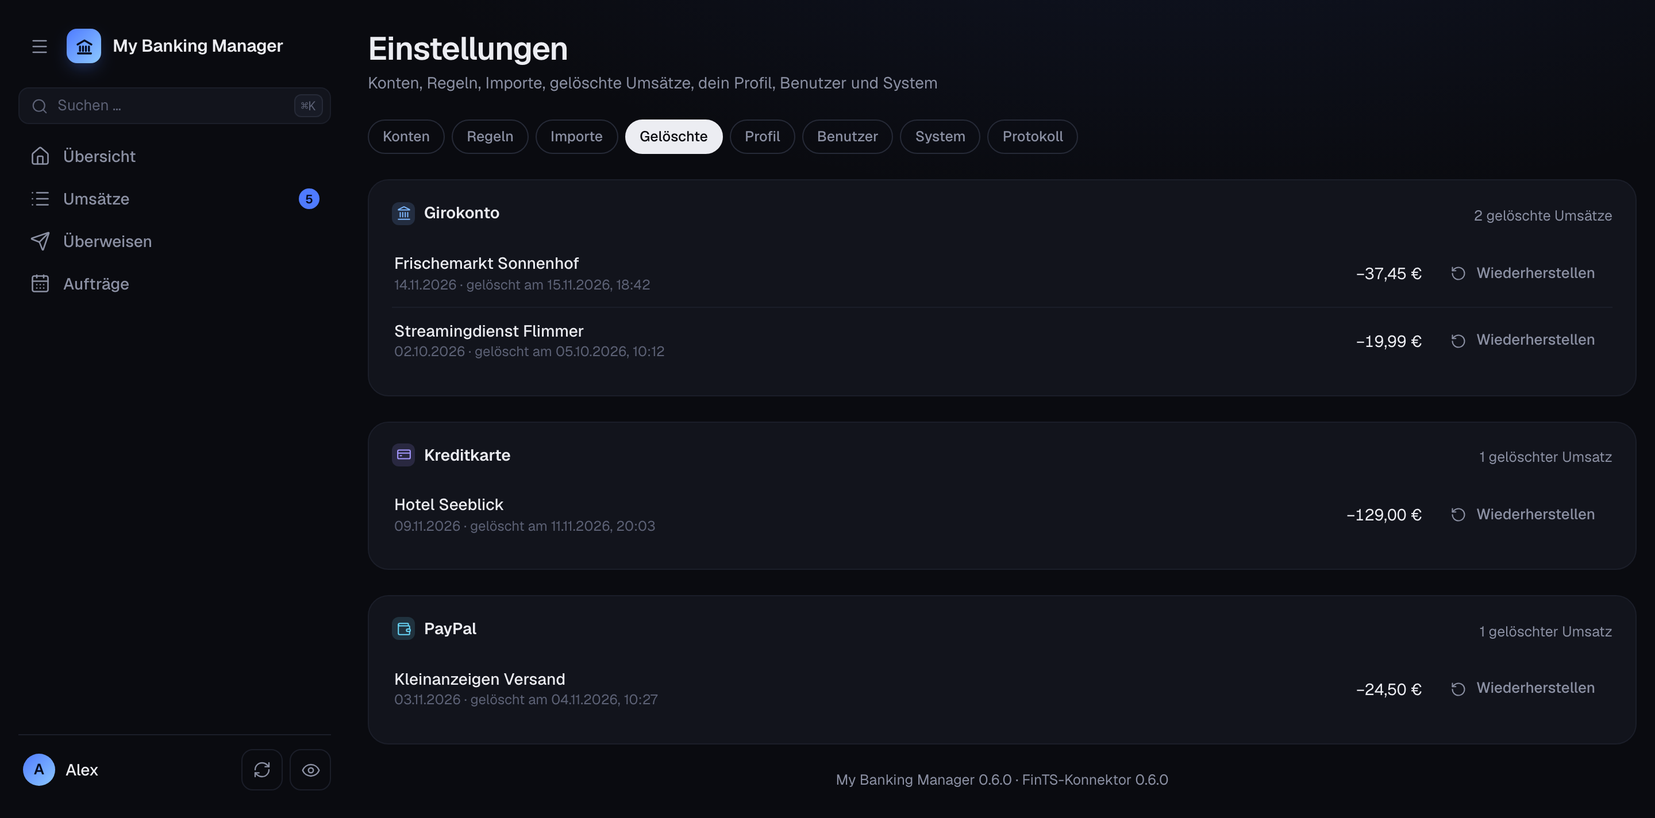
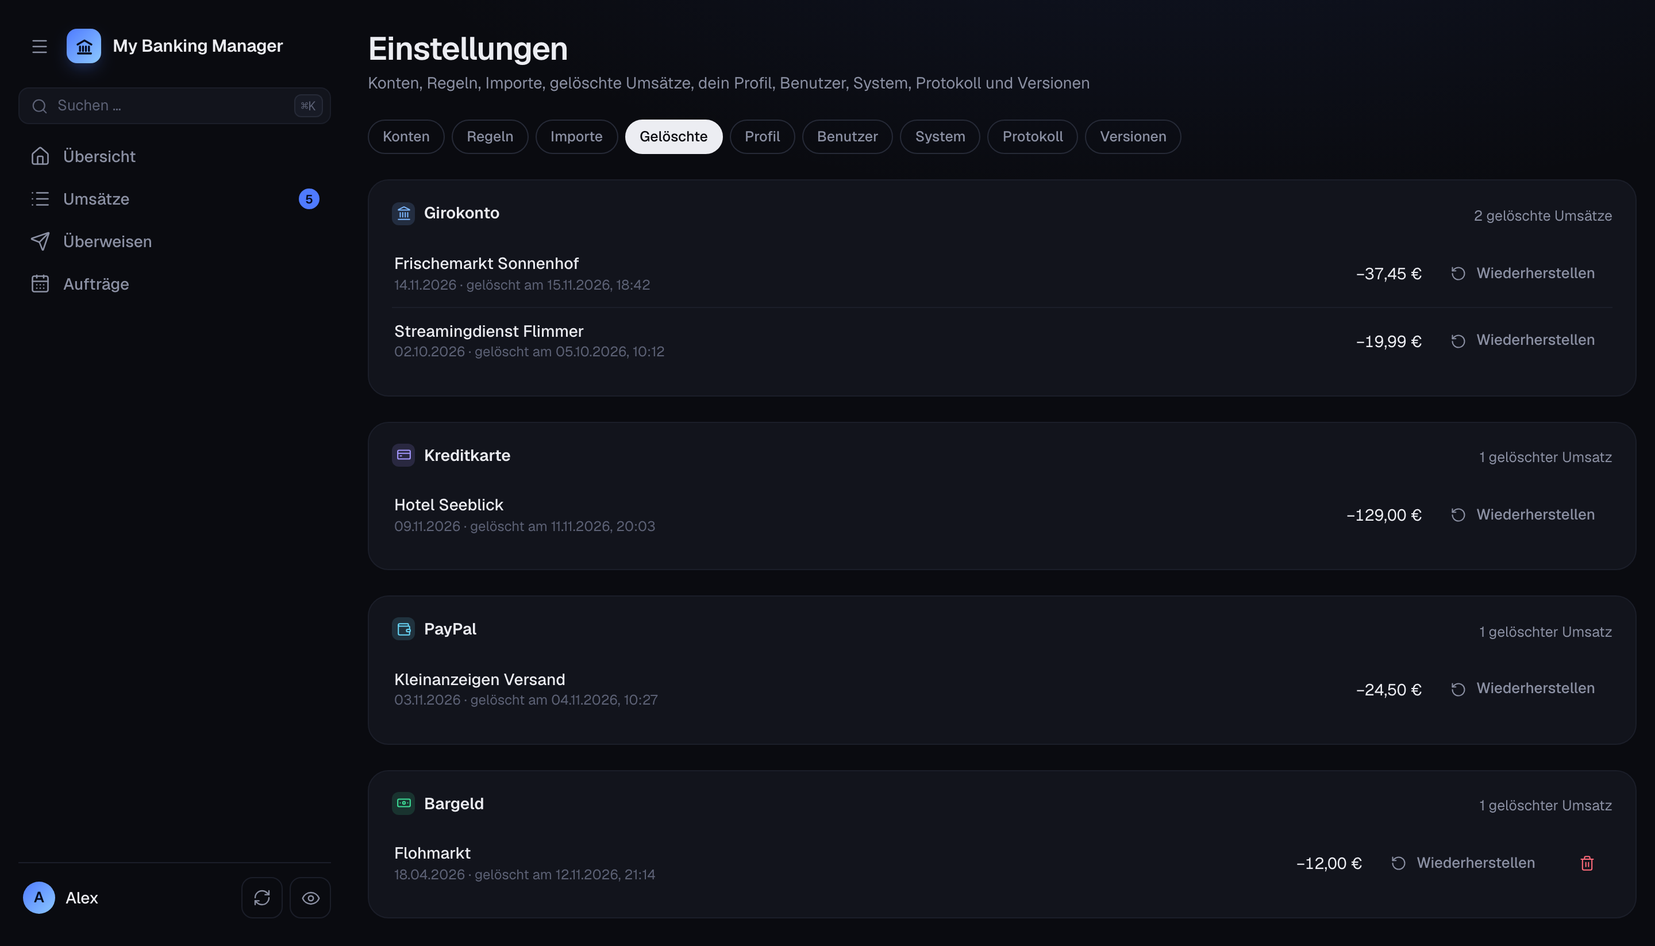
feat(umsätze): gelöschte Import-Umsätze endgültig löschen
Ein gelöschter Umsatz aus einem CSV-Import lässt sich unter Einstellungen →
Gelöschte oder in seinen Details endgültig löschen (DELETE
/api/transactions/:id/purge). Danach lässt er sich nicht wiederherstellen,
ein erneuter Import oder Abruf bringt ihn als neuen Umsatz wieder.
Bank-Umsätze und Umsätze in PayPal-Konten bleiben ausgenommen.

Die Importliste zählt gelöschte Umsätze (ImportRecord.deleted). „Entfernen“
und „Rückgängig“ fragen nach, wenn dabei gelöschte Umsätze endgültig
verschwinden; bisher entfernte „Entfernen“ sie ohne Hinweis.

isPaypalAccount liegt jetzt in accounts.ts.

diff --git a/server/src/bookingedits.test.ts b/server/src/bookingedits.test.ts
@@ -1,7 +1,7 @@
 // Bookings by hand on a bank account, deleting any booking, changing amount and date: the balance
 // stays the bank's and the fetch neither brings back nor doubles a booking.
 
-import { ConnectorTransaction, formatSignedCents, type Account, type Transaction, type TransactionList } from "@mbm/shared";
+import { ConnectorTransaction, formatSignedCents, type Account, type ImportRecord, type Transaction, type TransactionList } from "@mbm/shared";
 import { afterEach, beforeEach, describe, expect, it } from "vitest";
 import { applyFetch } from "./services/fetchimport.js";
 import { createTestApp, setUpSignedIn, type TestApp } from "./testing/testApp.js";
@@ -163,5 +163,63 @@ describe("changing amount and date of a booking of the bank", () => {
         const csv = "Datum;Betrag;Name;IBAN\n30.10.2026;-50,00;Stadtwerke;" + WERKE + "\n";
         const preview = await api<{ rows: { state: string }[] }>("POST", `/api/accounts/${accountId}/import/preview`, { fileName: "a.csv", content: csv });
         expect(preview.body.rows.map((r) => r.state)).toEqual(["duplicate"]);
+    });
+});
+
+describe("deleting bookings from an import for good", () => {
+    const CSV = "Datum;Betrag;Name\n01.02.2026;-5,00;Kiosk\n05.02.2026;5,00;Kiosk\n";
+    const importFile = async () => (await api<{ importId: number; imported: number }>("POST", `/api/accounts/${accountId}/import`, { fileName: "a.csv", content: CSV })).body;
+    const purge = (id: number) => api<{ error: string }>("DELETE", `/api/transactions/${id}/purge`);
+    const record = async (id: number) => (await api<ImportRecord[]>("GET", "/api/imports")).body.find((i) => i.id === id)!;
+
+    it("removes a deleted booking with all it holds; the same file brings it back", async () => {
+        const { importId } = await importFile();
+        const [paid, refund] = await list();
+        await api("PUT", `/api/transactions/${paid!.id}/edits/remittance`, { value: "Zeitung" });
+        // The second row gives the first back
+        t.vault.database.prepare("UPDATE transactions SET return_of_id = ? WHERE id = ?").run(paid!.id, refund!.id);
+        await api("DELETE", `/api/transactions/${paid!.id}`);
+        expect(await record(importId)).toMatchObject({ remaining: 1, deleted: 1 });
+        const before = await balance();
+
+        expect((await purge(paid!.id)).status).toBe(200);
+        expect(rowCount()).toBe(1);
+        expect(t.vault.database.prepare("SELECT count(*) AS n FROM transaction_edits WHERE transaction_id = ?").get(paid!.id)).toEqual({ n: 0 });
+        expect(t.vault.database.prepare("SELECT return_of_id FROM transactions WHERE id = ?").get(refund!.id)).toEqual({ return_of_id: null });
+        expect(await balance()).toBe(before);
+        expect(await record(importId)).toMatchObject({ remaining: 1, deleted: 0 });
+        expect((await list("&deleted=true")).length).toBe(0);
+        const log = (await api<{ action: string; target: string; details: string }[]>("GET", "/api/activity")).body;
+        expect(log.find((e) => e.action === "transaction_purged")).toMatchObject({ target: "Giro", details: `01.02.2026, ${formatSignedCents(-500)}` });
+
+        // Nothing stands for its row any more
+        expect((await importFile()).imported).toBe(1);
+        expect((await purge(paid!.id)).status).toBe(404);
+    });
+
+    it("refuses a booking that is not deleted, one of the bank and one in a PayPal account", async () => {
+        await importFile();
+        const [paid] = await list();
+        const refused = await purge(paid!.id);
+        expect(refused.status).toBe(409);
+        expect(refused.body.error).toBe("not_deleted");
+
+        fetched([coffee()], null);
+        const cup = (await list()).find((x) => x.source === "bank")!;
+        await api("DELETE", `/api/transactions/${cup.id}`);
+        const bank = await purge(cup.id);
+        expect(bank.status).toBe(409);
+        expect(bank.body.error).toBe("not_purgeable");
+
+        await api("DELETE", `/api/transactions/${paid!.id}`);
+        const db = t.vault.database;
+        const conn = db
+            .prepare("INSERT INTO bank_connections (name, connector, bank_name, blz, fints_url, icon, color, created_at, aspsp, country) VALUES ('PayPal', 'enablebanking', 'PayPal', '', '', 'wallet', 'blue', '2026-01-01T00:00:00Z', 'PayPal', 'DE')")
+            .run().lastInsertRowid;
+        db.prepare("UPDATE accounts SET connection_id = ?, external_id = ? WHERE id = ?").run(conn, OWN, accountId);
+        const paypal = await purge(paid!.id);
+        expect(paypal.status).toBe(409);
+        expect(paypal.body.error).toBe("not_purgeable");
+        expect(rowCount()).toBe(3);
     });
 });

diff --git a/clients/web/src/pages/Settings.tsx b/clients/web/src/pages/Settings.tsx
@@ -196,7 +196,7 @@ function ImportsTab() {
                                     onClick={() =>
                                         ui.confirm({
                                             title: `Import „${i.fileName}“ rückgängig machen?`,
-                                            text: `${plural(i.remaining, "Buchung", "Buchungen")} aus dieser Datei ${i.remaining === 1 ? "wird" : "werden"} gelöscht. Das lässt sich nicht rückgängig machen.`,
+                                            text: `${plural(i.remaining, "Buchung", "Buchungen")} aus dieser Datei ${i.remaining === 1 ? "wird" : "werden"} gelöscht.${i.deleted > 0 ? ` ${deletedGoText(i.deleted)}` : ""} Das lässt sich nicht rückgängig machen.`,
                                             confirm: i.remaining === 1 ? "Buchung löschen" : "Buchungen löschen",
                                             danger: true,
                                             onConfirm: () => action.succeeds(() => call(routes.undoImport, { params: { id: i.id } }), { topics: ["imports", "accounts", "transactions", "categories"], ok: "Import rückgängig gemacht" }),
@@ -210,7 +210,12 @@ function ImportsTab() {
                             {i.remaining === 0 && (
                                 <button
                                     className="btn btn-sm btn-ghost"
-                                    onClick={() => action.succeeds(() => call(routes.undoImport, { params: { id: i.id } }), { topics: ["imports", "accounts", "transactions", "categories"], ok: "Import aus der Liste entfernt" })}
+                                    onClick={() => {
+                                        const remove = () => action.succeeds(() => call(routes.undoImport, { params: { id: i.id } }), { topics: ["imports", "accounts", "transactions", "categories"], ok: "Import aus der Liste entfernt" });
+                                        // Deleted bookings keep a new import of the file from bringing them back; removing them is asked first
+                                        if (i.deleted === 0) void remove();
+                                        else ui.confirm({ title: `Import „${i.fileName}“ entfernen?`, text: deletedGoText(i.deleted), confirm: "Entfernen", danger: true, onConfirm: remove });
+                                    }}
                                 >
                                     <Ic icon={Trash2} size={14} />
                                     Entfernen
@@ -223,6 +228,13 @@ function ImportsTab() {
         </section>
         </>
     );
+}
+
+/** What removing an import does to its deleted bookings. */
+function deletedGoText(n: number): string {
+    return n === 1
+        ? "Die gelöschte Buchung aus dieser Datei wird endgültig gelöscht. Importierst du die Datei noch einmal, kommt sie wieder."
+        : `Die ${n} gelöschten Buchungen aus dieser Datei werden endgültig gelöscht. Importierst du die Datei noch einmal, kommen sie wieder.`;
 }
 
 /** Formats of the app and own ones; editing happens on a page of its own, with or without a file. */
@@ -325,6 +337,7 @@ const ACTION_LABELS: Record<string, string> = {
     counter_booking: "Gegenbuchung angelegt",
     transaction_deleted: "Umsatz gelöscht",
     transaction_restored: "Umsatz wiederhergestellt",
+    transaction_purged: "Umsatz endgültig gelöscht",
     category_deleted: "Kategorie gelöscht",
     import: "CSV importiert",
     import_undone: "Import rückgängig",

diff --git a/server/src/services/transactions.ts b/server/src/services/transactions.ts
@@ -17,7 +17,7 @@ import {
 import type { Db } from "../db/database.js";
 import { nowIso } from "../db/database.js";
 import { badRequest, conflict, notFound } from "../http/errors.js";
-import { accountsInScope, balanceAt, getAccount, keepBankBalance, requireAccount, requireOffline } from "./accounts.js";
+import { accountsInScope, balanceAt, getAccount, isPaypalAccount, keepBankBalance, requireAccount, requireOffline } from "./accounts.js";
 import { descendantIds, getSlot } from "./categories.js";
 import { queryTargets } from "./querytarget.js";
 
@@ -415,6 +415,7 @@ function followCounter(db: Db, tx: Transaction, input: Partial<ManualInput>): vo
  * Deletes a booking. One entered by hand goes for good. All others stay as deleted, with their
  * fingerprint, so that neither a fetch nor an import brings them back; what MBM added for a PayPal
  * payment is deleted with it. On an account with a bank balance, the balance stays the bank's.
+ * A deleted booking from an import can then go for good with `purgeTransaction`.
  */
 export function deleteTransaction(db: Db, id: number): Transaction {
     const tx = getTransaction(db, id);
@@ -435,6 +436,22 @@ export function deleteTransaction(db: Db, id: number): Transaction {
     db.prepare(`DELETE FROM transaction_unread WHERE transaction_id IN (${marks})`).run(...ids);
     keepBankBalance(db, tx.accountId, -sum);
     return getTransaction(db, id);
+}
+
+/**
+ * Removes a deleted booking from an import for good, with all it holds; returns it as it was. Its
+ * fingerprint goes too, so a new import of the file or a fetch brings it back as a new booking.
+ * Not for bookings of the bank (the next fetch would bring them back at once) nor in a PayPal
+ * account (the added bookings are worked out from all PayPal sent, the deleted ones included).
+ * The balance stays: a deleted booking no longer counts.
+ */
+export function purgeTransaction(db: Db, id: number): Transaction {
+    const tx = getTransaction(db, id);
+    if (!tx.deletedAt) throw conflict("Lösche den Umsatz zuerst.", "not_deleted");
+    if (tx.source !== "import") throw conflict("Nur gelöschte Umsätze aus einem Import lassen sich endgültig löschen. Bank-Umsätze brächte der nächste Abruf wieder.", "not_purgeable");
+    if (isPaypalAccount(db, tx.accountId)) throw conflict("Bei PayPal-Konten lassen sich Umsätze nicht endgültig löschen. MBM braucht sie für die ergänzten Buchungen.", "not_purgeable");
+    db.prepare("DELETE FROM transactions WHERE id = ?").run(id);
+    return tx;
 }
 
 /** Brings back a deleted booking, with what MBM added for it and was deleted with it. */

diff --git a/scripts/screenshots/fixtures.ts b/scripts/screenshots/fixtures.ts
@@ -401,18 +401,19 @@ book({ account: GIRO, date: "2026-11-20", amount: -3745, name: "Frischemarkt Son
 transactions.sort((a, b) => b.bookingDate.localeCompare(a.bookingDate) || b.id - a.id);
 
 /** A booking the user deleted: kept apart from the others, so that it counts nowhere, as on the server. */
-function deleted(b: Booking, when: string): Transaction {
+function deleted(b: Booking, when: string, from: Partial<Transaction> = {}): Transaction {
     const t = book(b)!;
     transactions.pop();
-    return { ...t, unread: false, deletedAt: when };
+    return { ...t, ...from, unread: false, deletedAt: when };
 }
 
-/** For the deleted bookings in the settings; only those of the bank, one entered by hand goes for good. */
+/** For the deleted bookings in the settings: those of the bank and one from the import; one entered by hand goes for good. */
 export const deletedTransactions: Transaction[] = [
     deleted({ account: GIRO, date: "2026-11-14", amount: -3745, name: "Frischemarkt Sonnenhof", remittance: "Kartenzahlung", category: "Supermarkt" }, at("2026-11-15", "17:42:08")),
     deleted({ account: GIRO, date: "2026-10-02", amount: -1999, name: "Streamingdienst Flimmer", remittance: "Lastschrift Probeabo", category: null }, at("2026-10-05", "08:12:40")),
     deleted({ account: CARD, date: "2026-11-09", amount: -12900, name: "Hotel Seeblick", remittance: "Reservierung, storniert", category: null }, at("2026-11-11", "19:03:51")),
     deleted({ account: PAYPAL, date: "2026-11-03", amount: -2450, name: "Kleinanzeigen Versand", remittance: "Doppelt gebucht", category: null }, at("2026-11-04", "09:27:15")),
+    deleted({ account: CASH, date: "2026-04-18", amount: -1200, name: "Flohmarkt", remittance: "Doppelt erfasst", category: null }, at("2026-11-12", "20:14:33"), { source: "import", importId: 1 }),
 ].sort((a, b) => b.bookingDate.localeCompare(a.bookingDate) || b.id - a.id);
 
 // ---------- Derived: accounts, categories ----------
@@ -946,7 +947,7 @@ export const importPreview: ImportPreview = {
 };
 
 export const imports = [
-    { id: 1, accountId: CASH, fileName: "kassenbuch-2026.csv", importedAt: at("2026-05-02", "17:52:00"), userName: "Alex", rows: 48, imported: 46, skipped: 2, remaining: 46 },
+    { id: 1, accountId: CASH, fileName: "kassenbuch-2026.csv", importedAt: at("2026-05-02", "17:52:00"), userName: "Alex", rows: 48, imported: 46, skipped: 2, remaining: 45, deleted: 1 },
 ];
 
 const ACTIVITY: [string, string, string, string | null, string | null][] = [

diff --git a/clients/web/src/pages/TxDrawer.tsx b/clients/web/src/pages/TxDrawer.tsx
@@ -11,6 +11,7 @@ import { dateText, fmtSigned, partyName, shownParty, shownPurpose } from "../lib
 import { openRuleForm, openRunRules } from "../lib/rules";
 import { copyText } from "../lib/clipboard";
 import { markTxs } from "../lib/unread";
+import { canPurge, confirmPurge } from "../lib/purge";
 import { ui, useUi } from "../lib/ui";
 import { INSPECTOR_QUERY, useMedia } from "../lib/media";
 import { Button } from "../components/common";
@@ -321,14 +322,22 @@ function Drawer({ id, panel }: { id: number; panel: boolean }) {
                     )}
                     <div className="d-actions">
                         {tx.deletedAt ? (
-                            <Button
-                                icon={RotateCcw}
-                                iconSize={16}
-                                busy={action.pending}
-                                onClick={() => void action.run(() => call(routes.restoreTransaction, { params: { id: tx.id } }), { topics: ["accounts", "transactions", "categories"], ok: "Umsatz wiederhergestellt" })}
-                            >
-                                Wiederherstellen
-                            </Button>
+                            <>
+                                <Button
+                                    icon={RotateCcw}
+                                    iconSize={16}
+                                    busy={action.pending}
+                                    onClick={() => void action.run(() => call(routes.restoreTransaction, { params: { id: tx.id } }), { topics: ["accounts", "transactions", "categories"], ok: "Umsatz wiederhergestellt" })}
+                                >
+                                    Wiederherstellen
+                                </Button>
+                                {canPurge(tx) && (
+                                    <button className="btn btn-ghost btn-danger" disabled={action.pending} onClick={() => confirmPurge(tx, action, close)}>
+                                        <Ic icon={Trash2} size={16} />
+                                        Endgültig löschen
+                                    </button>
+                                )}
+                            </>
                         ) : (
                             <>
                                 {canTransfer && tx.counterpartyIban && (

diff --git a/shared/src/api.ts b/shared/src/api.ts
@@ -95,6 +95,7 @@ export const routes = {
     createTransaction: r({ method: "POST", path: "/api/accounts/:id/transactions", summary: "Book by hand; on an account with a bank balance only the history before it changes", tag: "Transactions", access: "user", params: IdParam, body: B.ManualTransactionRequest, response: B.Transaction }),
     updateTransaction: r({ method: "PATCH", path: "/api/transactions/:id", summary: "Change a booking; of one from the bank, an import or added by MBM only amount and booking date", tag: "Transactions", access: "user", params: IdParam, body: B.UpdateTransactionRequest, response: B.Transaction }),
     deleteTransaction: r({ method: "DELETE", path: "/api/transactions/:id", summary: "Delete a booking: one entered by hand for good, others kept as deleted so that no fetch brings them back", tag: "Transactions", access: "user", params: IdParam, response: Ok }),
+    purgeTransaction: r({ method: "DELETE", path: "/api/transactions/:id/purge", summary: "Delete a deleted booking from an import for good; a new import or fetch may bring it back", tag: "Transactions", access: "user", params: IdParam, response: Ok }),
     restoreTransaction: r({ method: "POST", path: "/api/transactions/:id/restore", summary: "Bring back a deleted booking", tag: "Transactions", access: "user", params: IdParam, response: B.Transaction }),
     assignCategory: r({ method: "PUT", path: "/api/transactions/category", summary: "Assign a category to bookings", tag: "Transactions", access: "user", body: B.AssignCategoryRequest, response: B.AssignCategoryResponse }),
     unreadCounts: r({ method: "GET", path: "/api/transactions/unread", summary: "Number of new bookings of the signed-in user per account", tag: "Transactions", access: "user", response: B.UnreadCounts }),

diff --git a/clients/web/src/pages/settings/DeletedTab.tsx b/clients/web/src/pages/settings/DeletedTab.tsx
@@ -4,6 +4,7 @@ import { routes, type Account, type Transaction } from "@mbm/shared";
 import { call } from "../../lib/api";
 import { useAccounts, useAction, useGroups, useTransactions } from "../../lib/queries";
 import { dateText, dateTime, plural, shownParty, shownPurpose } from "../../lib/format";
+import { canPurge, confirmPurge } from "../../lib/purge";
 import { accountsInTreeOrder } from "../../lib/tree";
 import { ui } from "../../lib/ui";
 import { Amt, Empty } from "../../components/common";
@@ -74,6 +75,17 @@ function DeletedPanel({ account, items }: { account: Account | undefined; items:
                                 <Ic icon={RotateCcw} size={14} />
                                 Wiederherstellen
                             </button>
+                            {canPurge(tx) && (
+                                <button
+                                    className="btn btn-sm btn-ghost btn-danger"
+                                    disabled={action.pending}
+                                    aria-label="Endgültig löschen"
+                                    title="Endgültig löschen"
+                                    onClick={() => confirmPurge(tx, action)}
+                                >
+                                    <Ic icon={Trash2} size={14} />
+                                </button>
+                            )}
                         </span>
                     </div>
                 ))}

diff --git a/clients/web/src/lib/purge.ts b/clients/web/src/lib/purge.ts
@@ -1,0 +1,26 @@
+import { routes, type Transaction } from "@mbm/shared";
+import { call } from "./api";
+import { fmtSigned, shownParty, shownPurpose } from "./format";
+import type { useAction } from "./queries";
+import { ui } from "./ui";
+
+type Action = ReturnType<typeof useAction>;
+
+/** Only a deleted booking from an import can go for good; in a PayPal account the server refuses it. */
+export const canPurge = (tx: Transaction): boolean => tx.deletedAt !== null && tx.source === "import";
+
+/** Asks before a deleted booking from an import goes for good; `done` runs once it is gone. */
+export function confirmPurge(tx: Transaction, action: Action, done?: () => void): void {
+    const name = shownParty(tx) || shownPurpose(tx) || "Umsatz";
+    ui.confirm({
+        title: `Umsatz „${name}“ endgültig löschen?`,
+        text: `Der Umsatz über ${fmtSigned(tx.amount)} wird endgültig gelöscht und lässt sich nicht mehr wiederherstellen. Importierst du eine Datei, die ihn enthält, noch einmal, oder liefert ihn die Bank bei einem Abruf, kommt er als neuer Umsatz wieder.`,
+        confirm: "Endgültig löschen",
+        danger: true,
+        onConfirm: async () => {
+            const ok = await action.succeeds(() => call(routes.purgeTransaction, { params: { id: tx.id } }), { topics: ["transactions", "imports"], ok: "Umsatz endgültig gelöscht" });
+            if (ok) done?.();
+            return ok;
+        },
+    });
+}

diff --git a/server/src/services/fetchimport.ts b/server/src/services/fetchimport.ts
@@ -29,11 +29,11 @@
 import { createHash } from "node:crypto";
 import { duplicateKey, normalizeText, sameCounterparty, type ConnectorBalance, type ConnectorTransaction } from "@mbm/shared";
 import type { Db } from "../db/database.js";
-import { alignBankBalance } from "./accounts.js";
+import { alignBankBalance, isPaypalAccount } from "./accounts.js";
 import { evaluateNew, writeRuleCategories, writeRuleTexts } from "./rules.js";
 import { cleanIban, inheritReturnCategories, linkReturns } from "./returns.js";
 import { counterDefaultCategoryId } from "./transactions.js";
-import { deriveFunding, isPaypalAccount } from "./paypalfunding.js";
+import { deriveFunding } from "./paypalfunding.js";
 import { linkBookedTransfers } from "./transfers.js";
 import { markNew, markNewFor } from "./unread.js";
 

diff --git a/server/src/services/accounts.ts b/server/src/services/accounts.ts
@@ -284,3 +284,10 @@ export function alignBankBalance(db: Db, accountId: number, booked: number): voi
 export function keepBankBalance(db: Db, accountId: number, change: number): void {
     db.prepare("UPDATE accounts SET opening_balance = COALESCE(opening_balance, 0) - ? WHERE id = ? AND EXISTS (SELECT 1 FROM balances b WHERE b.account_id = accounts.id)").run(change, accountId);
 }
+
+/** An account fetched from PayPal; MBM adds bookings to it for where the money of a payment came from. */
+export function isPaypalAccount(db: Db, accountId: number): boolean {
+    return !!db
+        .prepare("SELECT 1 FROM accounts a JOIN bank_connections c ON c.id = a.connection_id WHERE a.id = ? AND c.connector = 'enablebanking' AND lower(c.aspsp) = 'paypal'")
+        .get(accountId);
+}

diff --git a/server/src/services/imports.ts b/server/src/services/imports.ts
@@ -489,7 +489,8 @@ export function listImports(db: Db): ImportRecord[] {
         .prepare(
             `SELECT i.id, i.account_id AS accountId, i.file_name AS fileName, i.imported_at AS importedAt, u.name AS userName,
                     i.rows, i.imported, i.skipped,
-                    (SELECT count(*) FROM transactions t WHERE t.import_id = i.id AND t.deleted_at IS NULL) AS remaining
+                    (SELECT count(*) FROM transactions t WHERE t.import_id = i.id AND t.deleted_at IS NULL) AS remaining,
+                    (SELECT count(*) FROM transactions t WHERE t.import_id = i.id AND t.deleted_at IS NOT NULL) AS deleted
              FROM imports i LEFT JOIN users u ON u.id = i.user_id ORDER BY i.id DESC`,
         )
         .all() as ImportRecord[];

diff --git a/clients/web/src/lib/purge.test.ts b/clients/web/src/lib/purge.test.ts
@@ -1,0 +1,14 @@
+import type { Transaction } from "@mbm/shared";
+import { describe, expect, it } from "vitest";
+import { canPurge } from "./purge";
+
+const tx = (over: Partial<Transaction>) => ({ deletedAt: null, source: "import", ...over }) as Transaction;
+
+describe("deleting for good", () => {
+    it("is offered only for a deleted booking from an import", () => {
+        expect(canPurge(tx({ deletedAt: "2026-11-12T19:14:33Z" }))).toBe(true);
+        expect(canPurge(tx({}))).toBe(false);
+        expect(canPurge(tx({ deletedAt: "2026-11-12T19:14:33Z", source: "bank" }))).toBe(false);
+        expect(canPurge(tx({ deletedAt: "2026-11-12T19:14:33Z", source: "manual" }))).toBe(false);
+    });
+});
